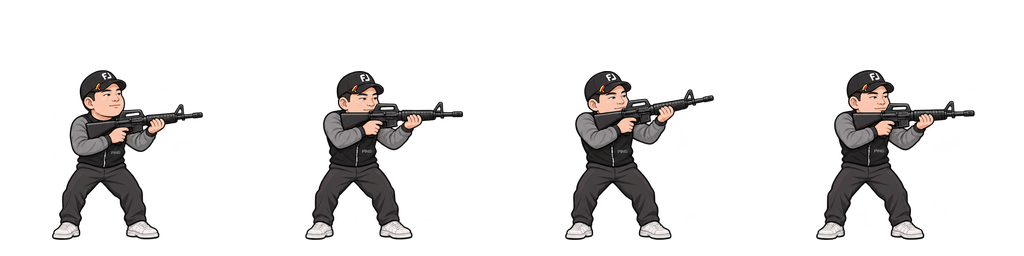
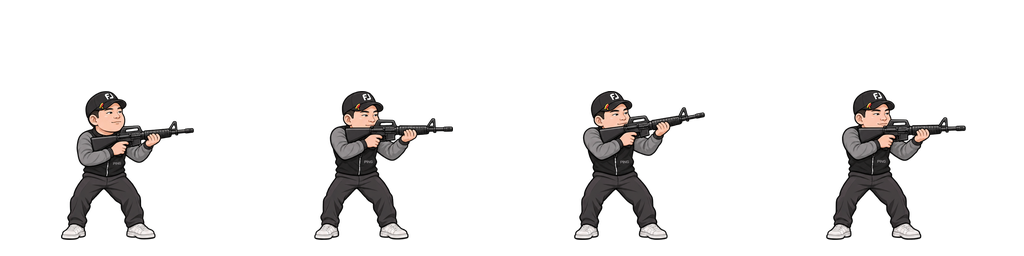
Keep Jaeho body scale consistent across movement and combat poses

diff --git a/utils/rooftopRenderer.ts b/utils/rooftopRenderer.ts
@@ -72,7 +72,7 @@ export class RooftopGame {
   const progress=special&&p.cast===3?Math.max(0,Math.min(1,.5+(elapsed-pulse)/.24)):attackProgress(p);
   const frame=this.frame(p),heavy=p.alive&&p.stun<=0&&p.down<=0&&p.poseTime>0&&(p.attackKind==='heavy'||special)&&!(p.cast===5&&p.specialLeft>0)&&progress>=0&&progress<1,animated=frame<20,firing=heavy&&special&&p.cast===6,image=firing?this.rifleMotion:heavy?this.heavyMotion[p.cast]:animated?this.motion[p.cast]:this.images[p.cast];if(!image||p.fall>1.4)return;const c=this.ctx,pos=this.point(p.x,p.y),left=Math.cos(p.angle)<0;
   const jump=p.jump>0?Math.sin(p.jump/.65*Math.PI)*90:0,lift=0;
-  const height=actorHeight(p.y,scale),drawHeight=height*(heavy?1.48:p.cast===6&&animated&&p.poseTime>0&&!special?1.22:1),width=drawHeight*(animated||heavy||p.cast===6?1:.75);
+  const height=actorHeight(p.y,scale),drawHeight=height*(p.cast===6?1.5:heavy?1.48:1),width=drawHeight*(animated||heavy||p.cast===6?1:.75);
   if(p.alive){c.save();c.fillStyle='#081a22';c.globalAlpha=.35;c.beginPath();c.ellipse(pos.x,pos.y+2,34-jump*.12,10,0,0,Math.PI*2);c.fill();
    c.globalAlpha=index===0?.9:.5;c.strokeStyle=p.momentum>0?'#ffad4f':index===0?'#fff3a6':CAST[p.cast].color;c.lineWidth=index===0?3:2;c.beginPath();c.ellipse(pos.x,pos.y+1,37,12,0,0,Math.PI*2);c.stroke();c.restore();}
   c.save();c.translate(pos.x,pos.y-jump-lift);if(left)c.scale(-1,1);
@@ -83,8 +83,8 @@ export class RooftopGame {
   if(p.down>0||!p.alive){c.translate(0,-18);c.rotate(-1.15);c.scale(.8,.8);}else if(!this.reduced&&p.stun>0){c.translate(-Math.min(16,p.stun*60),-4);c.rotate(-.16);}else if(!this.reduced&&p.dash>0)c.rotate(-.15);
   c.globalAlpha=p.alive?1:Math.max(0,1-p.fall);
   const cell=firing?(elapsed<.36?0:SPECIALS[6].pulses.some(t=>elapsed>=t&&elapsed<t+.075)?2:elapsed>.92?3:1):heavy?heavyCell(progress):animated?frame:frame-20,sw=image.width/(heavy&&!firing?8:4),sh=heavy?image.height:image.height/(animated?4:2),sx=(heavy?cell:cell%4)*sw,sy=heavy?0:Math.floor(cell/4)*sh;
-  if(!this.reduced&&(p.dash>0||(special&&!firing&&progress>.38&&progress<.82))){for(let k=3;k>0;k--){c.globalAlpha=.24/k;c.drawImage(image,sx,sy,sw,sh,-width/2-k*24,-drawHeight*(heavy?.9375:.94)+bob,width,drawHeight);}c.globalAlpha=1;}
-  c.drawImage(image,sx,sy,sw,sh,-width/2,-drawHeight*(heavy?.9375:.94)+bob,width,drawHeight);
+  if(!this.reduced&&(p.dash>0||(special&&!firing&&progress>.38&&progress<.82))){for(let k=3;k>0;k--){c.globalAlpha=.24/k;c.drawImage(image,sx,sy,sw,sh,-width/2-k*24,-drawHeight*(heavy||p.cast===6?.9375:.94)+bob,width,drawHeight);}c.globalAlpha=1;}
+  c.drawImage(image,sx,sy,sw,sh,-width/2,-drawHeight*(heavy||p.cast===6?.9375:.94)+bob,width,drawHeight);
   c.restore();
   if(p.alive){c.save();c.fillStyle='#18272c';c.fillRect(pos.x-29,pos.y+18,58,5);c.fillStyle=p.hp<50?'#f26b63':index===0?'#ffe58e':'#77d8bc';c.fillRect(pos.x-29,pos.y+18,58*p.hp/MAX_HP,5);c.restore();}
   if(p.guard>0){c.save();c.strokeStyle='#9cecdf';c.lineWidth=4;c.globalAlpha=.8;c.beginPath();c.ellipse(pos.x,pos.y-height*.40,55,75,0,-Math.PI*.65,Math.PI*.65);c.stroke();c.restore();}
@@ -104,7 +104,7 @@ export class RooftopGame {
   for(const p of this.model.fighters)if(p.alive&&p.specialLeft>0){const pos=this.point(p.x,p.y),s=SPECIALS[p.cast],elapsed=s.duration-p.specialLeft;c.save();c.translate(pos.x,pos.y);c.strokeStyle=WEAPONS[p.cast].color;c.globalAlpha=.6;c.lineWidth=4;c.setLineDash([12,9]);c.beginPath();if(p.cast===2)c.ellipse(0,0,s.range,s.range*.6,0,0,Math.PI*2);else{const dx=Math.cos(p.angle)*s.range,dy=Math.sin(p.angle)*s.range*.6;c.moveTo(0,0);c.lineTo(dx,dy);}c.stroke();c.setLineDash([]);c.lineWidth=5;c.beginPath();c.ellipse(0,0,48,19,0,0,Math.PI*2*Math.min(1,elapsed/.6));c.stroke();c.restore();}
   for(const p of this.model.fighters)if(p.alive&&p.specialLeft>0){const s=SPECIALS[p.cast],elapsed=s.duration-p.specialLeft,windup=s.pulses[0]??s.duration;if(p.cast!==6&&elapsed<windup){const pos=this.point(p.x,p.y),h=actorHeight(p.y,scale);c.save();c.translate(pos.x+Math.cos(p.angle)*42,pos.y-h*.46);drawChargeFx(c,elapsed/windup,this.reduced);c.restore();}}
   this.model.fighters.map((p,i)=>({p,i})).sort((a,b)=>a.p.y-b.p.y).forEach(({p,i})=>this.actor(p,i,scale));
-  for(const b of this.specialBursts){const pos=this.point(b.x,b.y);c.save();c.translate(pos.x,pos.y-(b.cast===2?0:actorHeight(b.y,scale)*(b.cast===6?.80:.46)));if(b.cast===6)c.translate(Math.cos(b.angle)<0?-100:100,0);if(b.cast!==2)c.rotate(Math.atan2(Math.sin(b.angle)*.6,Math.cos(b.angle)));if(b.cast===2)specialEffect(c,b.cast,.65-b.life,WEAPONS[b.cast].color,this.reduced);if(!drawSpecialFx(c,b.cast,.65-b.life,this.reduced,b.range))specialEffect(c,b.cast,.65-b.life,WEAPONS[b.cast].color,this.reduced);c.restore();}
+  for(const b of this.specialBursts){const pos=this.point(b.x,b.y);c.save();c.translate(pos.x,pos.y-(b.cast===2?0:actorHeight(b.y,scale)*(b.cast===6?.70:.46)));if(b.cast===6)c.translate(Math.cos(b.angle)<0?-100:100,0);if(b.cast!==2)c.rotate(Math.atan2(Math.sin(b.angle)*.6,Math.cos(b.angle)));if(b.cast===2)specialEffect(c,b.cast,.65-b.life,WEAPONS[b.cast].color,this.reduced);if(!drawSpecialFx(c,b.cast,.65-b.life,this.reduced,b.range))specialEffect(c,b.cast,.65-b.life,WEAPONS[b.cast].color,this.reduced);c.restore();}
   for(const b of this.bursts){const pos=this.point(b.x,b.y),age=.65-b.life,jump=b.jump>0?Math.sin(b.jump/.65*Math.PI)*90:0;c.save();c.translate(pos.x,pos.y-actorHeight(b.targetY,scale)*(b.cast===2&&b.heavy?.22:b.cast===3&&b.heavy?.70:.46)-jump);
    c.save();c.rotate(Math.atan2(Math.sin(b.angle)*.6,Math.cos(b.angle)));const fxScale=Math.max(.85,Math.min(1.7,.75/scale));c.scale(fxScale,fxScale);if(b.superHit)superContact(c,age,b.color,this.reduced);if(b.hit||b.block||b.broken)contactEffect(c,b.cast,age,b.heavy,b.block,b.broken,b.color,this.reduced);c.restore();
    if(b.text){c.globalAlpha=Math.min(1,b.life*4);const font=Math.max(22,Math.min(38,(this.width<700?18:15)/scale));c.font=`900 ${font}px sans-serif`;c.textAlign='center';c.lineWidth=5;c.strokeStyle='#14232c';const y=-55-(this.reduced?0:age*35);const label=this.width<700?b.text.replace('POWER','강타').replace('BREAK!','반격').replace('HIT','타').replace('RUSH','연타'):b.text;c.strokeText(label,0,y);c.fillStyle=b.block?'#adffff':'#fff7db';c.fillText(label,0,y);}c.restore();

diff --git a/components/RooftopBrawl.tsx b/components/RooftopBrawl.tsx
@@ -38,13 +38,13 @@ export default function RooftopBrawl(){
   <div className="roof-stage">
    <canvas ref={canvas} aria-label="2D 옥상 난투 경기장"/>
    {phase!=='ready'&&<div className="roof-score">{m?.fighters.map((p,i)=><div key={p.cast} className={`${!p.alive?'out':''} ${i===0?'is-player':''}`} style={{'--fighter':CAST[p.cast].color} as CSSProperties}>
-    <div className="roof-face" style={{backgroundImage:`url(${CAST[p.cast].image})`}}/>
+    <div className="roof-face" style={{backgroundImage:`url(${CAST[p.cast].image})`,...(p.cast===6?{backgroundSize:"600% 300%",backgroundPosition:"5% 23.4%"}:{})}}/>
     <div className="roof-score-info"><span>{i===0?'YOU':'CPU'} <b>{CAST[p.cast].name}</b></span><strong>{p.alive?`${Math.ceil(p.hp)}`:'OUT'}</strong><progress className="roof-hp" aria-label={`${CAST[p.cast].name} 체력`} max={MAX_HP} value={p.hp}/><i>{'●'.repeat(p.wins)}{'○'.repeat(Math.max(0,2-p.wins))}</i></div>
    </div>)}</div>}
    {phase==='ready'&&<div className="roof-lobby">
     <div className="roof-lobby-title"><span>DKU RE09 / ARCADE CLUB</span><h1>옥상 난투<span>ROOFTOP RUMBLE</span></h1></div>
     <div className="roof-selection"><div className="roof-selection-heading"><b>PLAYER SELECT</b><span>{String(selected+1).padStart(2,'0')} / {String(CAST.length).padStart(2,'0')}</span></div>
-     <div className="roof-roster">{CAST.map((p,i)=><button key={p.id} aria-label={p.name} aria-pressed={selected===i} onClick={()=>{setSelected(i);game?.preview(i);}} style={{'--fighter':p.color} as CSSProperties}><div className="roof-portrait" style={{backgroundImage:`url(${p.image})`}}/><strong>{p.name}</strong><span>{WEAPONS[i].name}</span></button>)}</div>
+     <div className="roof-roster">{CAST.map((p,i)=><button key={p.id} aria-label={p.name} aria-pressed={selected===i} onClick={()=>{setSelected(i);game?.preview(i);}} style={{'--fighter':p.color} as CSSProperties}><div className="roof-portrait" style={{backgroundImage:`url(${p.image})`,...(p.id==="jaeho"?{backgroundSize:"600% 300%",backgroundPosition:"5% 23.4%"}:{})}}/><strong>{p.name}</strong><span>{WEAPONS[i].name}</span></button>)}</div>
      <div className="roof-enter"><div><b>{CAST[selected].name}</b><span>{WEAPONS[selected].name} · 사거리 {attackReach(selected)}</span></div><button disabled={!loaded||!!error} onClick={start}><Play size={18} fill="currentColor"/>{error?'실행 불가':loaded?'대전 시작':'준비 중'}</button></div>
      <p className="roof-special-help"><b>U · {SPECIALS[selected].name}</b> {SPECIALS[selected].description} · 첫 라운드부터 사용 가능</p>
      <p className="roof-special-help">방향키로 조준 · L 회피 후 공격은 강화 반격 · J 2타 적중 후 K로 빠른 마무리</p>

diff --git a/scripts/rooftop-size-review.html b/scripts/rooftop-size-review.html
@@ -1,0 +1,10 @@
+<!doctype html><meta charset="utf-8"><title>캐릭터 크기 회귀 검사</title><style>body{margin:0;background:#263b44;color:white;font:16px sans-serif}button{padding:12px;margin:5px}canvas{width:100%;height:620px}p{padding:10px}</style><button id="cast">7명 크기 비교</button><button id="poses">재호 자세 비교</button><button id="jump">점프 비교</button><p id="labels"></p><canvas></canvas><script type="module">
+import {RooftopGame} from '/utils/rooftopRenderer.ts';import {RooftopMatch,CAST} from '/utils/rooftopModel.ts';
+const g=new RooftopGame(document.querySelector('canvas'),()=>{});await g.ready;g.audio.setEnabled(false);g.model.phase='paused';g.reduced=true;
+function fighter(cast,x){const m=new RooftopMatch(()=>.5);m.start(cast);return Object.assign(m.fighters[0],{x,y:100,angle:0,vx:0,vy:0});}
+function show(mode){g.model.fighters=Array.from({length:7},(_,i)=>fighter(mode==='cast'?i:6,-540+i*180));g.model.events=[];g.bursts=[];g.specialBursts=[];g.superCue=null;
+if(mode==='poses'){const p=g.model.fighters;p[1].vx=30;p[1].gait=0;p[2].jump=.325;p[3].guard=.5;Object.assign(p[4],{poseTime:.48,attackDuration:1,attackKind:'push'});Object.assign(p[5],{poseTime:.48,attackDuration:1,attackKind:'heavy'});Object.assign(p[6],{poseTime:.72,attackDuration:1.2,attackKind:'special'});}
+if(mode==='jump'){g.model.fighters.forEach((p,i)=>{p.jump=[0,.05,.15,.25,.325,.45,.6][i];});}
+document.querySelector('#labels').textContent=mode==='cast'?CAST.map(p=>p.name).join(' / '):mode==='poses'?'대기 / 이동 / 점프 / 방어 / 일반 공격 / 강공격 / 사격':'대기 / 점프 시작 / 상승 / 상승 / 정점 / 하강 / 착지 직전';}
+for(const id of ['cast','poses','jump'])document.getElementById(id).onclick=()=>show(id);show('cast');
+</script>

diff --git a/utils/rooftopCinematic.ts b/utils/rooftopCinematic.ts
@@ -16,7 +16,7 @@ export function superCutIn(c:CanvasRenderingContext2D,w:number,h:number,cue:Supe
  c.save();c.beginPath();c.rect(0,3,w,bh-6);c.clip();
  if(!reduced){c.strokeStyle=color;c.lineWidth=2;c.globalAlpha=fade*.45;for(let i=0;i<12;i++){const sy=(i*37)%bh;const x=((i*127+t*700)%(w+180))-180;c.beginPath();c.moveTo(x,sy);c.lineTo(x+95+(i%3)*28,sy);c.stroke();}c.globalAlpha=fade;}
  // Reuse the actual fighter artwork, keeping its palette and face consistent.
- if(image){const sw=image.width/4,sh=image.height/2,size=bh*2.3;c.drawImage(image,0,0,sw,sh,-bh*.36,bh*.04,size*.75,size);}
+ if(image){const sw=image.width/4,sh=image.height/2,size=bh*2.3;const inset=cue.cast===6;c.drawImage(image,inset?sw/6:0,inset?sh*.313:0,inset?sw/1.5:sw,inset?sh/1.5:sh,-bh*.36,bh*.04,size*.75,size);}
  c.restore();
  const textX=Math.max(w*.37,bh*.95),available=w-textX-12;
  c.textAlign='left';c.textBaseline='middle';c.fillStyle=color;c.font=`900 ${Math.min(14,available/13)}px sans-serif`;c.fillText('SUPER SPECIAL',textX,bh*.25);

diff --git a/scripts/pack-rooftop-jaeho-grip.py b/scripts/pack-rooftop-jaeho-grip.py
@@ -6,32 +6,39 @@ ROOT=Path(__file__).resolve().parents[1]
 SRC=Path('C:/Users/User/.codex/generated_images/01a1a915-04e1-7e42-9e36-b0b7881b055d')
 OUT=ROOT/'output/jaeho-grip'
 report={'coordinateSpace':'screen','weaponHand':'both hands adjacent at muzzle end; same order','activeWeapon':'reversed M16 club','sources':{}}
-def split(name,id):
+def split(name,id,cols=4):
  im=Image.open(SRC/f'exec-{id}.png').convert('RGBA');im.putalpha(im.getchannel('A').point(lambda a:0 if a<32 else a))
  result=[]
  for y in range(2):
-  for x in range(4):
-   cell=im.crop((round(x*im.width/4),round(y*im.height/2),round((x+1)*im.width/4),round((y+1)*im.height/2)));box=cell.getbbox()
+  for x in range(cols):
+   cell=im.crop((round(x*im.width/cols),round(y*im.height/2),round((x+1)*im.width/cols),round((y+1)*im.height/2)));box=cell.getbbox()
    assert box and box[0]>0 and box[1]>0 and box[2]<cell.width and box[3]<cell.height,(name,x,y,box)
    result.append(cell.crop(box))
  report['sources'][name]=str(SRC/f'exec-{id}.png');return result
-def normalize(frames,reference_height,target):
- scale=min(target/reference_height,234/max(i.width for i in frames),234/max(i.height for i in frames));result=[]
+# Calibrate ONE uniform scale per source batch using cap-to-chin landmarks,
+# never the weapon/pose bounding box. All gameplay sheets use the same 1.5 canvas scale.
+HEAD_PIXELS={'melee':85,'walk-states':90,'shoot':145}
+REFERENCE_HEAD=150/293*85
+report['scaleContract']={'renderScale':1.5,'targetHeadPixels':REFERENCE_HEAD,'sourceHeadPixels':HEAD_PIXELS,'anchor':240/256}
+def normalize(frames,batch):
+ scale=REFERENCE_HEAD/HEAD_PIXELS[batch];result=[]
  for frame in frames:
-  f=frame.resize((round(frame.width*scale),round(frame.height*scale)),Image.Resampling.LANCZOS);cell=Image.new('RGBA',(256,256));cell.alpha_composite(f,((256-f.width)//2,240-f.height));result.append(cell)
+  f=frame.resize((round(frame.width*scale),round(frame.height*scale)),Image.Resampling.LANCZOS)
+  assert f.width<246 and f.height<236,('Enlarge canvas, never shrink body to fit',batch,f.size)
+  cell=Image.new('RGBA',(256,256));cell.alpha_composite(f,((256-f.width)//2,240-f.height));result.append(cell)
  return result
 def pack(frames,cols,suffix):
  im=Image.new('RGBA',(cols*256,((len(frames)+cols-1)//cols)*256))
  for i,f in enumerate(frames):im.alpha_composite(f,((i%cols)*256,(i//cols)*256))
  im.save(ROOT/'public/images'/f'rooftop-jaeho-{suffix}.png')
 melee=split('melee','5521cb3c-6e0f-4951-b8d7-9b7ee029c6d5');states=split('walk-states','9f300359-154b-46e4-8231-31ef67f30a28')
-base=normalize([melee[0]],melee[0].height,220)[0]
-walk=normalize(states[:4],states[0].height,220);poses=normalize(states[4:],states[0].height,220)
-light=normalize(melee,melee[0].height,220);heavy=normalize(melee,melee[0].height,170)
-pack([base,base,poses[0],poses[1],base,poses[0],poses[2],poses[3]],4,'v2');pack(walk*2+light,4,'motion-v3');pack(heavy,8,'heavy-v5')
+heavy=normalize(melee,'melee');light=heavy;base=heavy[0]
+all_states=normalize(states,'walk-states');walk=all_states[:4];poses=all_states[4:]
+shoot=normalize(split('shoot','a40c6820-740d-412b-8172-982d5ff6c8d6',2),'shoot')
+pack([base,base,poses[0],poses[1],base,poses[0],poses[2],poses[3]],4,'v2');pack(walk*2+light,4,'motion-v3');pack(heavy,8,'heavy-v5');pack(shoot,4,'shoot-v1')
 preview=Image.new('RGB',(1024,1024),'#48616a')
 for i,f in enumerate(heavy+walk+poses):preview.paste(f,((i%4)*256,(i//4)*256),f)
 preview.save(OUT/'contact-sheet.jpg')
 heavy[0].save(OUT/'preview.gif',save_all=True,append_images=heavy[1:],duration=[220,130,70,100,90,90,100,200],loop=0,disposal=2)
 (OUT/'manifest.json').write_text(json.dumps(report,indent=2),encoding='utf-8')
-print('PASS: 8 melee and 8 locomotion/state source cells intact. Three corrected atlases packed; shooting sheet unchanged.')
+print('PASS: 8 melee and 8 locomotion/state source cells intact. Four atlases share one body scale; no per-pose fitting.')
